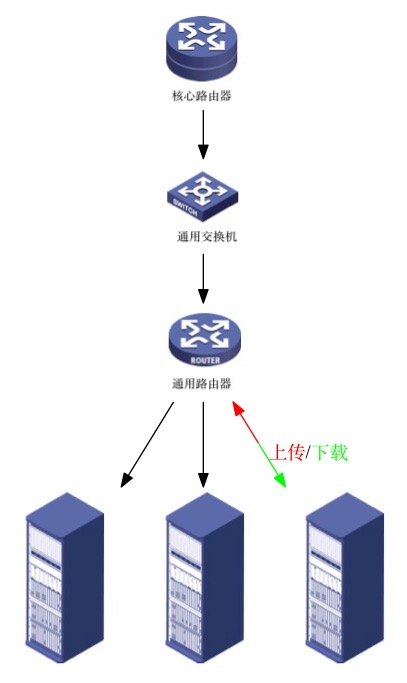
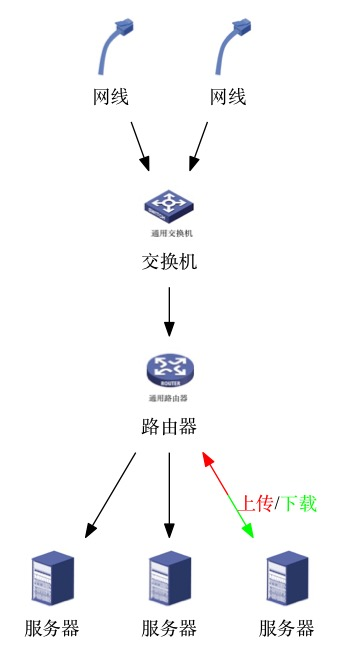
* graphviz: 面向对象

diff --git a/swift/Hello, Swift.playground/Contents.swift b/swift/Hello, Swift.playground/Contents.swift
@@ -314,7 +314,7 @@ default:
 
 // ------------------------------
 // 函数
-// function
+// 返回一个值的函数
 func sayHello(yourName: String) -> String {
     let message = "Hello, \(yourName)"
     println(message)
@@ -322,19 +322,30 @@ func sayHello(yourName: String) -> String {
 }
 sayHello("Laisky")
 
+
 // 返回多参数
 func funcWithMultiReturnArgs() -> (String, String) {
     return ("Hello", "World")
 }
 funcWithMultiReturnArgs()
 
+
+// 没有返回值的函数
+func funcWithoutArgs() {
+    print("☭💊")
+}
+funcWithoutArgs()
+
+
 // 修改参数名字
+// someFunction(externalParameterName localParameterName: Type)
 func sayHelloWithNamedArgs(yourName Name: String) -> String {
     let message = "Hello, \(Name)"
     println(message)
     return message
 }
 sayHelloWithNamedArgs(yourName: "Laisky")
+
 
 // 有默认参数的函数
 func sayHelloWithDefaultAegs(#yourName: String = "Laisky") -> String {
@@ -344,6 +355,7 @@ func sayHelloWithDefaultAegs(#yourName: String = "Laisky") -> String {
 }
 sayHelloWithDefaultAegs()
 
+
 // 默认多参数
 func multiArgs(args: Int...) {
     for i in args {
@@ -352,6 +364,7 @@ func multiArgs(args: Int...) {
 }
 multiArgs(1,2,3,4,5)
 
+//
 func funcCanChangeArgs(inout #arg: String) {
     // inout 会使得参数可在函数内被修改
     arg += ",ninini"

diff --git a/py2/pygraphviz/pytopo.py b/py2/pygraphviz/pytopo.py
@@ -1,0 +1,103 @@
+#! /usr/bin/env python
+# -*- coding: utf-8
+
+
+"""
+Generate network topological graph by pygraphviz.
+"""
+
+
+from __future__ import unicode_literals, division
+from collections import namedtuple
+
+import pygraphviz
+
+
+BOX_SIZE = namedtuple('boxsize', ('width', 'height'))
+GRAPH_SIZE = BOX_SIZE(50, 50)
+NODE_SIZE = BOX_SIZE(50, 50)
+
+
+def gen_label(label=None, image=None):
+    return (
+        '<<table border="0" align="center">'
+        '<tr><td fixedsize="true" width="{width}" height="{width}"><img src="{image}" /></td></tr>'
+        '<tr><td>{label}</td></tr>'
+        '</table>>'
+    ).format(width=NODE_SIZE.width, height=NODE_SIZE.height, label=label, image=image)
+
+
+class TopoGraph(object):
+
+    def __init__(self):
+        g = pygraphviz.AGraph(
+            directed=True,
+            strict=True,
+            encoding='UTF-8',
+            size='{width},{height}'.format(width=GRAPH_SIZE.width, height=GRAPH_SIZE.height)
+        )
+        self.g = g
+        self.nodes = set([])
+
+    def add_node(self, node):
+        assert node.node_name not in self.nodes
+        self.g.add_node(**node.kwargs)
+        self.nodes.add(node.node_name)
+        return node.node_name
+
+    def add_edge(self, source, target, *attrs, **kw):
+        assert source in self.nodes, 'source not existed!'
+        assert target in self.nodes, 'target not existed!'
+        self.g.add_edge(source, target, *attrs, **kw)
+
+    def draw(self, path):
+        self.g.layout('dot')
+        self.g.draw(path, format='jpg')
+
+
+class Node(object):
+
+    def __init__(self, node_name, label=None, image=None, graph=None):
+        assert label or image, 'Create node need at least one label or image.'
+        self.node_name = node_name
+        self.kwargs = {
+            'n': node_name,
+            'shape': 'plaintext',
+            'label': gen_label(label, image)
+        }
+
+        if graph:
+            self.add_to_graph(graph)
+
+    def add_to_graph(self, graph):
+        graph.add_node(self)
+
+
+class RouterNode(Node):
+
+    def __init__(self, node_name, label='路由器', image='./img/router.jpg', graph=None):
+        super(RouterNode, self).__init__(node_name, label, image, graph)
+
+
+class NetworkNode(Node):
+
+    def __init__(self, node_name, label='网线', image='./img/network.jpg', graph=None):
+        super(NetworkNode, self).__init__(node_name, label, image, graph)
+
+
+class CoreRouterNode(Node):
+
+    def __init__(self, node_name, label='核心路由器', image='./img/core-router.jpg', graph=None):
+        super(CoreRouterNode, self).__init__(node_name, label, image, graph)
+
+
+class ServerNode(Node):
+
+    def __init__(self, node_name, label='服务器', image='./img/server.jpg', graph=None):
+        super(ServerNode, self).__init__(node_name, label, image, graph)
+
+
+class SwitchNode(Node):
+
+    def __init__(self, node_name, label='交换机', image='./img/switch.jpg', graph=None):
+        super(SwitchNode, self).__init__(node_name, label, image, graph)
